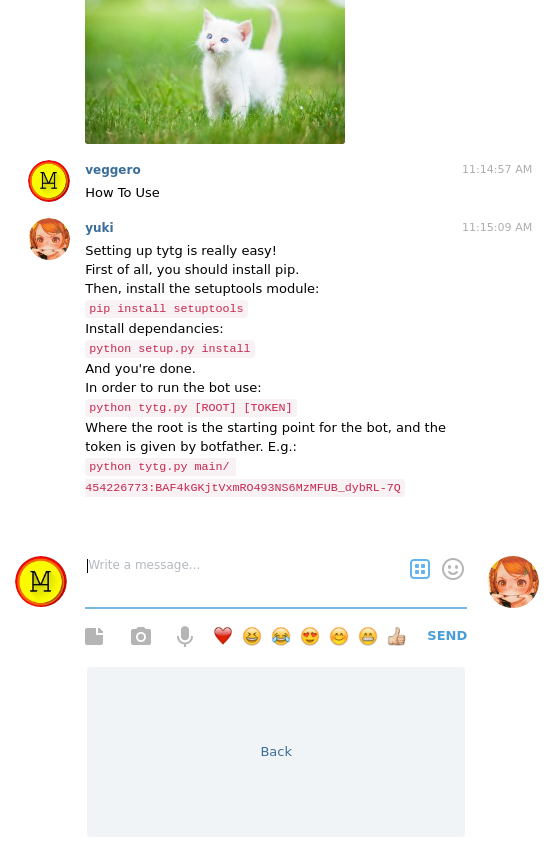
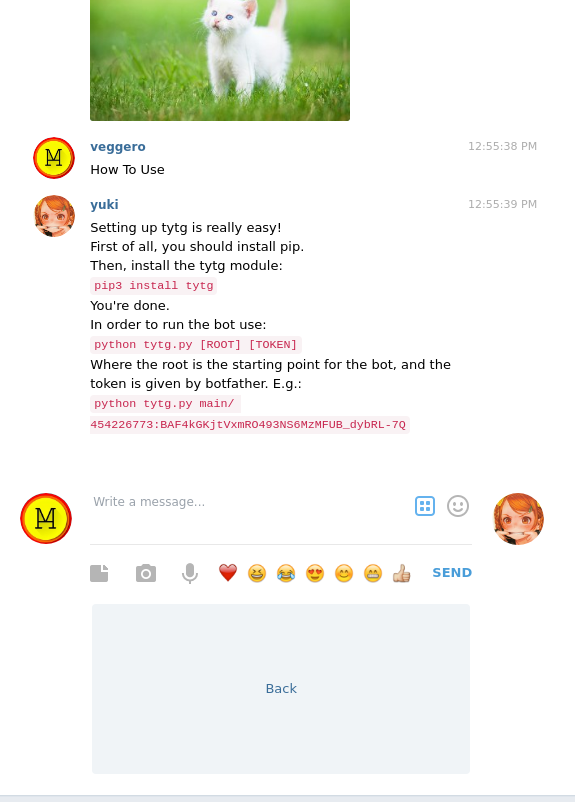
Changed instructions

diff --git a/main/How To Use {1}/instructions.html b/main/How To Use {1}/instructions.html
@@ -1,10 +1,8 @@
 Setting up tytg is really easy!
 First of all, you should install pip.
-Then, install the setuptools module:
-<code>pip install setuptools</code>
-Install dependancies:
-<code>python setup.py install</code>
-And you're done.
+Then, install the tytg module:
+<code>pip3 install tytg</code>
+You're done.
 In order to run the bot use:
 <code>python tytg.py [ROOT] [TOKEN]</code>
 Where the root is the starting point for the bot, and the token is given by botfather. E.g.:

diff --git a/setup.py b/setup.py
@@ -1,14 +1,20 @@
 from setuptools import setup
 
 setup(name='tytg',
-      version='0.2',
+      version='0.2.1',
       description='Telegram bot making without any line of code.',
       url='http://github.com/veggero/tytg',
       author='veggero',
       author_email='niccolo@venerandi.com',
       license='unlicenced',
       packages=['tytg'],
+      long_description=open('README.md', 'r').read(),
+	  long_description_content_type="text/markdown",
       install_requires=[
           'python-telegram-bot',
       ],
+		entry_points='''
+			[console_scripts]
+			tytg=tytg:tytg
+		''',
       zip_safe=False)
